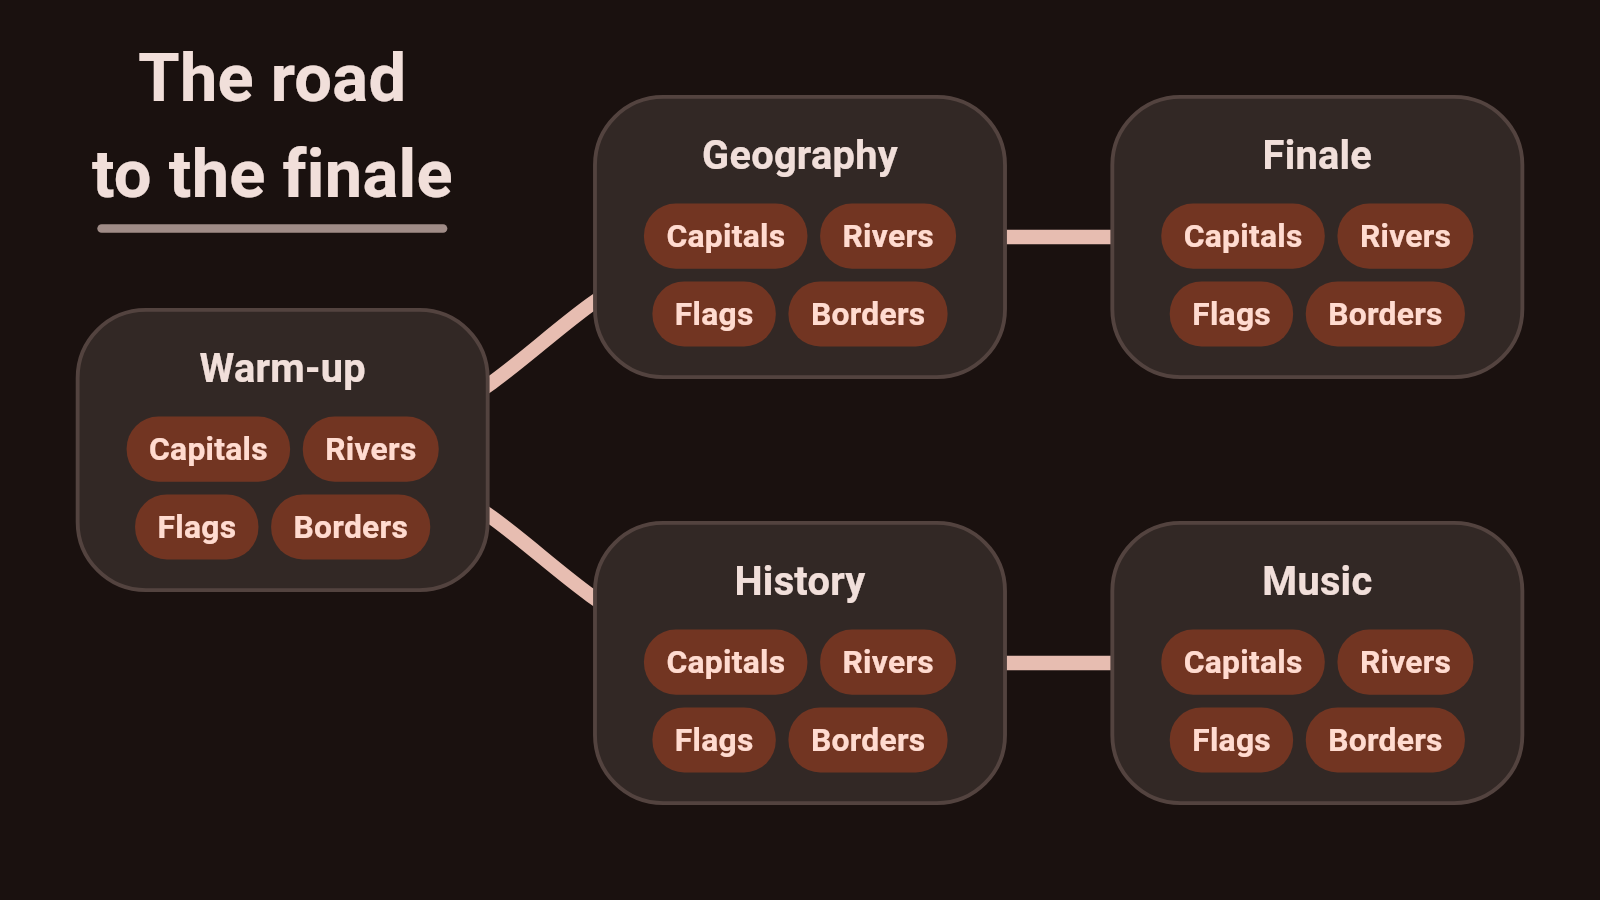
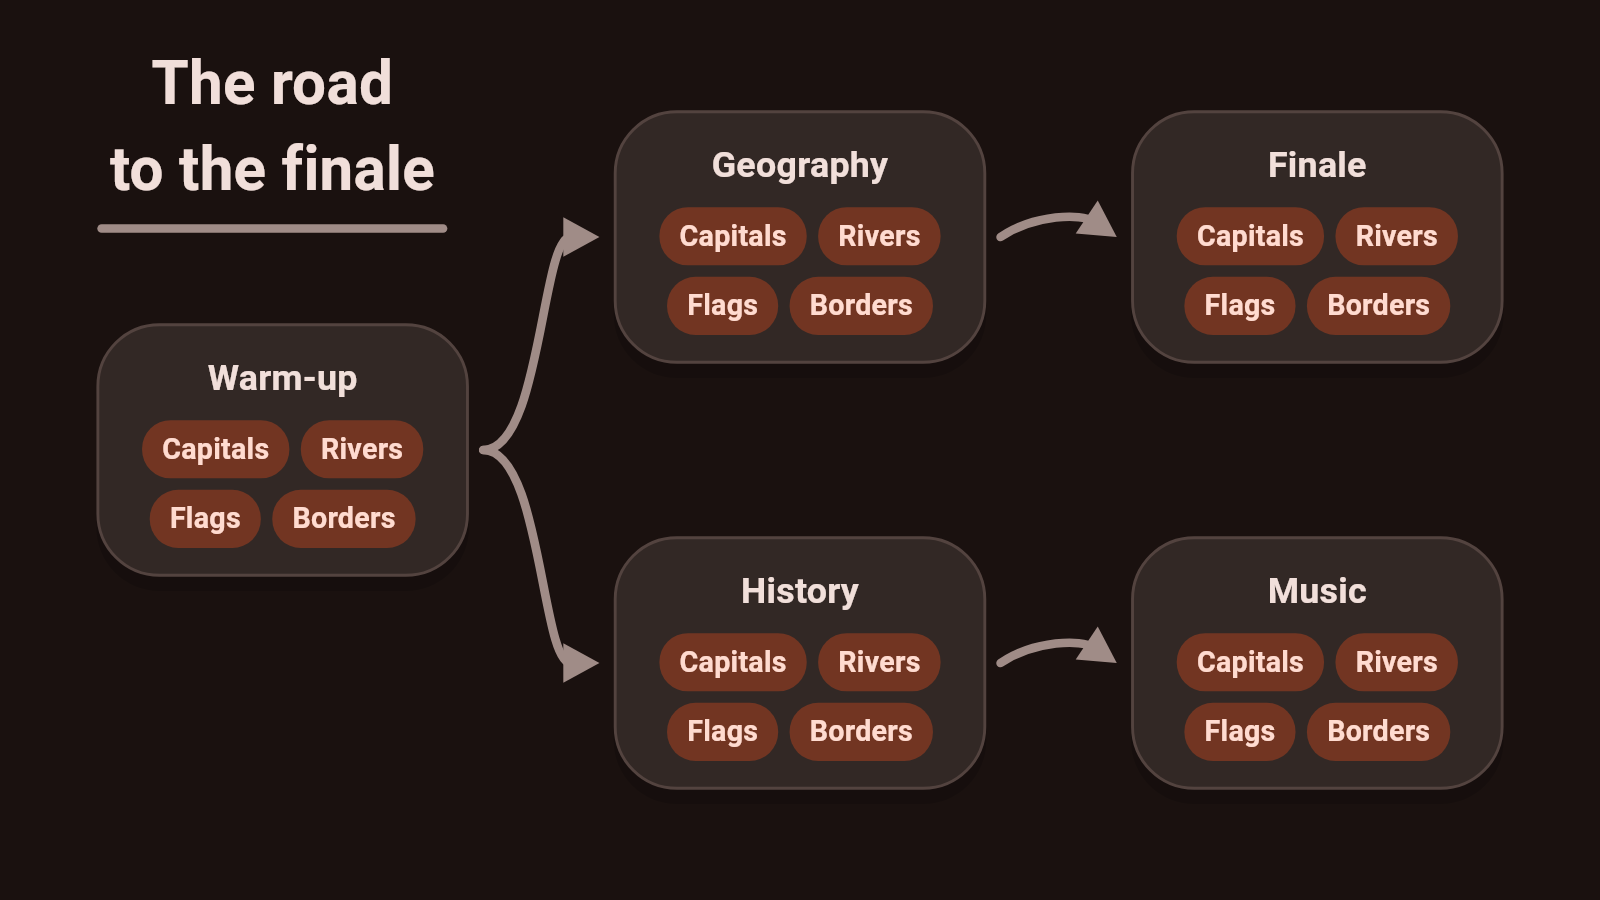
map board: curved arrows between bubble edges, lit path, bubble shadows

diff --git a/lib/features/session/boards/map_board.dart b/lib/features/session/boards/map_board.dart
@@ -3,12 +3,14 @@ import 'dart:math';
 
 import 'package:flutter/material.dart';
 
+import 'package:quiz_show/features/session/boards/map_arrows.dart';
 import 'package:quiz_show/game/game.dart';
 
-/// The map: every category a bubble holding its questions, connected in the
-/// order they are played, with branches where several follow the same one.
-/// Titles, pictures and lines placed in the editor lie around them.
-class MapBoard extends StatelessWidget {
+/// The map: every category a bubble holding its questions, connected by
+/// arrows in the order they are played, with branches where several follow
+/// the same one. Titles, pictures and lines placed in the editor lie around
+/// them.
+class MapBoard extends StatefulWidget {
   const MapBoard({super.key, required this.group, required this.state, required this.imageFile});
 
   final CategoryGroup group;
@@ -18,20 +20,56 @@ class MapBoard extends StatelessWidget {
   final File? Function(String name) imageFile;
 
   @override
+  State<MapBoard> createState() => _MapBoardState();
+}
+
+class _MapBoardState extends State<MapBoard> {
+  final Map<String, GlobalKey> _keys = {};
+
+  /// How large each bubble turned out, so arrows can meet their edges. A
+  /// bubble's height depends on its content and is only known once laid out.
+  Map<String, Size> _sizes = const {};
+
+  void _measure() {
+    if (!mounted) return;
+    final sizes = <String, Size>{
+      for (final entry in _keys.entries)
+        if (entry.value.currentContext?.findRenderObject() case final RenderBox box when box.hasSize) entry.key: box.size,
+    };
+    final changed = sizes.length != _sizes.length || sizes.entries.any((e) => _sizes[e.key] != e.value);
+    if (changed) setState(() => _sizes = sizes);
+  }
+
+  @override
   Widget build(BuildContext context) {
     final scheme = Theme.of(context).colorScheme;
+    final group = widget.group;
+    final state = widget.state;
     final map = layoutMap(group);
     final labels = mapShowsLabels(group);
+    _keys.removeWhere((id, _) => !map.nodes.containsKey(id));
+    WidgetsBinding.instance.addPostFrameCallback((_) => _measure());
+
     return LayoutBuilder(
       builder: (context, box) {
         final size = box.biggest;
         final cellWidth = size.width / map.columns;
         final cellHeight = size.height / map.rows;
         // A bubble gets most of its cell, but never grows absurdly large on
-        // a map with only a few of them.
-        final bubbleWidth = min(min(cellWidth * 0.8, cellHeight * 1.5), size.width * 0.3);
+        // a map with only a few of them. Arrows need room between bubbles.
+        final bubbleWidth = min(min(cellWidth * 0.72, cellHeight * 1.4), size.width * 0.28);
         final unit = bubbleWidth / 13;
         Offset at(MapPoint point) => Offset(point.x * size.width, point.y * size.height);
+        Rect rectOf(String id) {
+          final bubble = _sizes[id] ?? Size(bubbleWidth, bubbleWidth * 0.5);
+          return Rect.fromCenter(center: at(map.nodes[id]!), width: bubble.width, height: bubble.height);
+        }
+
+        bool done(String categoryId) {
+          final category = group.categories.firstWhere((c) => c.id == categoryId);
+          return category.questions.isNotEmpty &&
+              category.questions.every((q) => state.played.contains(QuestionRef(category.id, q.id).key));
+        }
 
         Widget centred(MapPoint point, Widget child) => Positioned(
               left: at(point).dx,
@@ -45,16 +83,22 @@ class MapBoard extends StatelessWidget {
             Positioned.fill(
               child: CustomPaint(
                 painter: _ConnectionsPainter(
-                  edges: [for (final (from, to) in map.edges) (at(map.nodes[from]!), at(map.nodes[to]!))],
+                  arrows: [
+                    for (final (from, to) in map.edges)
+                      // The way out of a finished bubble lights up: this is
+                      // where the game goes next.
+                      (routeArrow(rectOf(from), rectOf(to), gap: unit * 0.5), done(from)),
+                  ],
                   lines: [for (final line in map.decorations.whereType<MapLine>()) (at(line.from), at(line.to))],
-                  color: scheme.secondary,
+                  color: scheme.outline,
+                  activeColor: scheme.primary,
                   lineColor: scheme.outline,
-                  width: unit * 0.45,
+                  width: unit * 0.3,
                 ),
               ),
             ),
             for (final image in map.decorations.whereType<MapImage>())
-              if (imageFile(image.image) case final file?)
+              if (widget.imageFile(image.image) case final file?)
                 centred(
                   image.center,
                   ClipRRect(
@@ -74,7 +118,14 @@ class MapBoard extends StatelessWidget {
             for (final category in group.categories)
               centred(
                 map.nodes[category.id]!,
-                _Bubble(category: category, state: state, width: bubbleWidth, unit: unit, labels: labels),
+                _Bubble(
+                  key: _keys.putIfAbsent(category.id, GlobalKey.new),
+                  category: category,
+                  state: state,
+                  width: bubbleWidth,
+                  unit: unit,
+                  labels: labels,
+                ),
               ),
           ],
         );
@@ -84,7 +135,7 @@ class MapBoard extends StatelessWidget {
 }
 
 class _Bubble extends StatelessWidget {
-  const _Bubble({required this.category, required this.state, required this.width, required this.unit, required this.labels});
+  const _Bubble({super.key, required this.category, required this.state, required this.width, required this.unit, required this.labels});
 
   final Category category;
   final SessionState state;
@@ -105,7 +156,19 @@ class _Bubble extends StatelessWidget {
       decoration: BoxDecoration(
         color: done ? scheme.surfaceContainerLow : scheme.surfaceContainerHigh,
         borderRadius: BorderRadius.circular(unit * 2.2),
-        border: Border.all(color: active ? scheme.primary : scheme.outlineVariant, width: unit * (active ? 0.3 : 0.12)),
+        border: Border.all(color: active ? scheme.primary : scheme.outlineVariant, width: unit * (active ? 0.3 : 0.1)),
+        // Lifts the bubbles off the board, and the one in play a bit more.
+        boxShadow: done
+            ? null
+            : [
+                // The bubble in play glows; the others cast a soft shadow.
+                BoxShadow(
+                  color: (active ? scheme.primary : Colors.black).withValues(alpha: active ? 0.45 : 0.16),
+                  blurRadius: unit * (active ? 3.5 : 2.6),
+                  spreadRadius: active ? unit * 0.2 : 0,
+                  offset: active ? Offset.zero : Offset(0, unit * 0.5),
+                ),
+              ],
       ),
       child: Column(
         mainAxisSize: MainAxisSize.min,
@@ -168,52 +231,46 @@ class _Bubble extends StatelessWidget {
 }
 
 class _ConnectionsPainter extends CustomPainter {
-  _ConnectionsPainter({required this.edges, required this.lines, required this.color, required this.lineColor, required this.width});
+  _ConnectionsPainter({
+    required this.arrows,
+    required this.lines,
+    required this.color,
+    required this.activeColor,
+    required this.lineColor,
+    required this.width,
+  });
 
-  final List<(Offset, Offset)> edges;
+  /// Each arrow, and whether it leads on from a finished bubble.
+  final List<(MapArrow, bool)> arrows;
   final List<(Offset, Offset)> lines;
   final Color color;
+  final Color activeColor;
   final Color lineColor;
   final double width;
 
   @override
   void paint(Canvas canvas, Size size) {
-    final paint = Paint()
-      ..color = color
-      ..style = PaintingStyle.stroke
-      ..strokeWidth = width
-      ..strokeCap = StrokeCap.round;
-    for (final (from, to) in edges) {
-      // An S-curve that leaves and arrives along the main direction, like
-      // the connectors of an organisation chart.
-      final path = Path()..moveTo(from.dx, from.dy);
-      if ((to.dx - from.dx).abs() >= (to.dy - from.dy).abs()) {
-        final mid = (from.dx + to.dx) / 2;
-        path.cubicTo(mid, from.dy, mid, to.dy, to.dx, to.dy);
-      } else {
-        final mid = (from.dy + to.dy) / 2;
-        path.cubicTo(from.dx, mid, to.dx, mid, to.dx, to.dy);
-      }
-      canvas.drawPath(path, paint);
+    final head = width * 4.2;
+    for (final (arrow, active) in arrows) {
+      final paint = Paint()
+        ..color = active ? activeColor : color
+        ..style = PaintingStyle.stroke
+        ..strokeWidth = active ? width * 1.35 : width
+        ..strokeCap = StrokeCap.round;
+      canvas
+        ..drawPath(arrow.shaft(head), paint)
+        ..drawPath(arrow.head(head), Paint()..color = paint.color);
     }
     final linePaint = Paint()
       ..color = lineColor
-      ..strokeWidth = width * 0.6
+      ..strokeWidth = width
       ..strokeCap = StrokeCap.round;
     for (final (from, to) in lines) {
       canvas.drawLine(from, to, linePaint);
     }
   }
 
+  // Cheap to paint, and the arrows move with every measured bubble.
   @override
-  bool shouldRepaint(_ConnectionsPainter old) =>
-      old.color != color || old.width != width || !_same(old.edges, edges) || !_same(old.lines, lines);
-
-  static bool _same(List<(Offset, Offset)> a, List<(Offset, Offset)> b) {
-    if (a.length != b.length) return false;
-    for (var i = 0; i < a.length; i++) {
-      if (a[i] != b[i]) return false;
-    }
-    return true;
-  }
+  bool shouldRepaint(_ConnectionsPainter old) => true;
 }

diff --git a/lib/features/session/boards/map_arrows.dart b/lib/features/session/boards/map_arrows.dart
@@ -1,0 +1,96 @@
+import 'dart:math';
+import 'dart:ui';
+
+/// A connection between two bubbles: a cubic curve from the edge of one to
+/// the edge of the other, ending in an arrowhead.
+class MapArrow {
+  const MapArrow(this.start, this.control1, this.control2, this.end);
+
+  final Offset start;
+  final Offset control1;
+  final Offset control2;
+
+  /// The arrow's tip.
+  final Offset end;
+
+  /// The direction the arrow points in at its tip, as a unit vector.
+  Offset get heading {
+    final d = end - control2;
+    final length = d.distance;
+    return length == 0 ? const Offset(1, 0) : d / length;
+  }
+
+  Path get curve => Path()
+    ..moveTo(start.dx, start.dy)
+    ..cubicTo(control1.dx, control1.dy, control2.dx, control2.dy, end.dx, end.dy);
+
+  /// The curve, stopping where the arrowhead of [length] begins, so the
+  /// line's round end does not poke through its tip.
+  Path shaft(double length) {
+    final stop = end - heading * length * 0.8;
+    return Path()
+      ..moveTo(start.dx, start.dy)
+      ..cubicTo(control1.dx, control1.dy, control2.dx, control2.dy, stop.dx, stop.dy);
+  }
+
+  /// A triangle with its tip at [end].
+  Path head(double length) {
+    final back = end - heading * length;
+    final side = Offset(-heading.dy, heading.dx) * length * 0.55;
+    return Path()
+      ..moveTo(end.dx, end.dy)
+      ..lineTo(back.dx + side.dx, back.dy + side.dy)
+      ..lineTo(back.dx - side.dx, back.dy - side.dy)
+      ..close();
+  }
+}
+
+/// Routes an arrow from the bubble [from] to the bubble [to].
+///
+/// It leaves and arrives through the sides that face each other: sideways
+/// when the bubbles are mostly next to each other, up or down when one is
+/// mostly above the other. Leaving and arriving square to those sides gives
+/// the gentle S of an organisation chart. [gap] keeps both ends clear of the
+/// bubbles' outlines.
+MapArrow routeArrow(Rect from, Rect to, {double gap = 0}) {
+  final delta = to.center - from.center;
+  // How far apart the facing sides are, in each direction; negative when the
+  // bubbles overlap in that direction.
+  final clearX = delta.dx.abs() - (from.width + to.width) / 2;
+  final clearY = delta.dy.abs() - (from.height + to.height) / 2;
+  final sideways = clearX >= clearY;
+
+  late Offset start, end, normalOut, normalIn;
+  if (sideways) {
+    final right = delta.dx >= 0;
+    normalOut = Offset(right ? 1 : -1, 0);
+    normalIn = normalOut;
+    start = Offset(right ? from.right + gap : from.left - gap, from.center.dy);
+    end = Offset(right ? to.left - gap : to.right + gap, to.center.dy);
+  } else {
+    final down = delta.dy >= 0;
+    normalOut = Offset(0, down ? 1 : -1);
+    normalIn = normalOut;
+    start = Offset(from.center.dx, down ? from.bottom + gap : from.top - gap);
+    end = Offset(to.center.dx, down ? to.top - gap : to.bottom + gap);
+  }
+  // Run out square to the side for half the way across: the classic S that
+  // never overshoots, however far the two bubbles are offset from each other.
+  final across = sideways ? (end.dx - start.dx).abs() : (end.dy - start.dy).abs();
+  final reach = max(across * 0.5, gap);
+  var control1 = start + normalOut * reach;
+  var control2 = end - normalIn * reach;
+
+  // Two bubbles exactly in line would get a dead straight arrow. A slight
+  // bow, always to the same side of the direction of travel, keeps the map
+  // looking drawn rather than ruled.
+  final offset = sideways ? (end.dy - start.dy).abs() : (end.dx - start.dx).abs();
+  final length = (end - start).distance;
+  if (length > 0 && offset < length * 0.08) {
+    // One even arc: both controls on the chord, pushed out to one side.
+    final bow = Offset(normalOut.dy, -normalOut.dx) * length * 0.2;
+    control1 = start + (end - start) * 0.3 + bow;
+    control2 = start + (end - start) * 0.7 + bow;
+  }
+  return MapArrow(start, control1, control2, end);
+}

diff --git a/test/map_arrows_test.dart b/test/map_arrows_test.dart
@@ -1,0 +1,65 @@
+import 'dart:ui';
+
+import 'package:flutter_test/flutter_test.dart';
+import 'package:quiz_show/features/session/boards/map_arrows.dart';
+
+void main() {
+  const a = Rect.fromLTWH(0, 100, 100, 60);
+
+  test('bubbles side by side are joined through their facing sides', () {
+    final arrow = routeArrow(a, const Rect.fromLTWH(300, 300, 100, 60), gap: 5);
+    expect(arrow.start, const Offset(105, 130));
+    expect(arrow.end, const Offset(295, 330));
+    // It leaves and arrives level, so the head points straight at the bubble.
+    expect(arrow.control1.dy, arrow.start.dy);
+    expect(arrow.control2.dy, arrow.end.dy);
+    expect(arrow.heading, const Offset(1, 0));
+    // An S that does not overshoot: both controls stay between the bubbles.
+    expect(arrow.control1.dx, inInclusiveRange(arrow.start.dx, arrow.end.dx));
+    expect(arrow.control2.dx, inInclusiveRange(arrow.start.dx, arrow.end.dx));
+  });
+
+  test('right to left and bottom to top work the same way', () {
+    final back = routeArrow(const Rect.fromLTWH(300, 100, 100, 60), a, gap: 5);
+    expect(back.start.dx, 295);
+    expect(back.end.dx, 105);
+    expect(back.heading.dx, lessThan(0));
+
+    final up = routeArrow(const Rect.fromLTWH(0, 400, 100, 60), a, gap: 5);
+    expect(up.start, const Offset(50, 395));
+    expect(up.end, const Offset(50, 165));
+    expect(up.heading.dy, lessThan(0));
+  });
+
+  test('one above the other is joined top to bottom', () {
+    final arrow = routeArrow(a, const Rect.fromLTWH(20, 400, 100, 60));
+    expect(arrow.start, const Offset(50, 160));
+    expect(arrow.end, const Offset(70, 400));
+  });
+
+  test('bubbles exactly in line get a bowed arrow, not a ruled one', () {
+    final arrow = routeArrow(a, const Rect.fromLTWH(300, 100, 100, 60));
+    expect(arrow.start.dy, arrow.end.dy);
+    expect(arrow.control1.dy, isNot(arrow.start.dy));
+    expect(arrow.control1.dy, arrow.control2.dy);
+    // The head follows the curve into the bubble.
+    expect(arrow.heading.dx, greaterThan(0.5));
+  });
+
+  test('the head is a triangle with its tip on the end', () {
+    final arrow = routeArrow(a, const Rect.fromLTWH(300, 300, 100, 60));
+    final bounds = arrow.head(20).getBounds();
+    expect(bounds.right, closeTo(arrow.end.dx, 0.01));
+    expect(bounds.width, closeTo(20, 0.01));
+    expect(bounds.center.dy, closeTo(arrow.end.dy, 0.01));
+    // The line stops inside the head instead of poking through the tip.
+    expect(arrow.shaft(20).getBounds().right, lessThan(arrow.end.dx));
+  });
+
+  test('touching or overlapping bubbles still give a finite arrow', () {
+    final arrow = routeArrow(a, a.shift(const Offset(40, 10)), gap: 5);
+    for (final point in [arrow.start, arrow.control1, arrow.control2, arrow.end]) {
+      expect(point.dx.isFinite && point.dy.isFinite, isTrue);
+    }
+  });
+}

diff --git a/lib/features/games/widgets/map_editor.dart b/lib/features/games/widgets/map_editor.dart
@@ -275,7 +275,7 @@ class _MapEditorState extends State<MapEditor> {
     final draft = _draft;
     final map = layoutMap(draft);
     // Same sizing as MapBoard, to put each handle over its bubble.
-    final bubbleWidth = min(min(size.width / map.columns * 0.8, size.height / map.rows * 1.5), size.width * 0.3);
+    final bubbleWidth = min(min(size.width / map.columns * 0.72, size.height / map.rows * 1.4), size.width * 0.28);
 
     Widget handle({
       required Key key,
